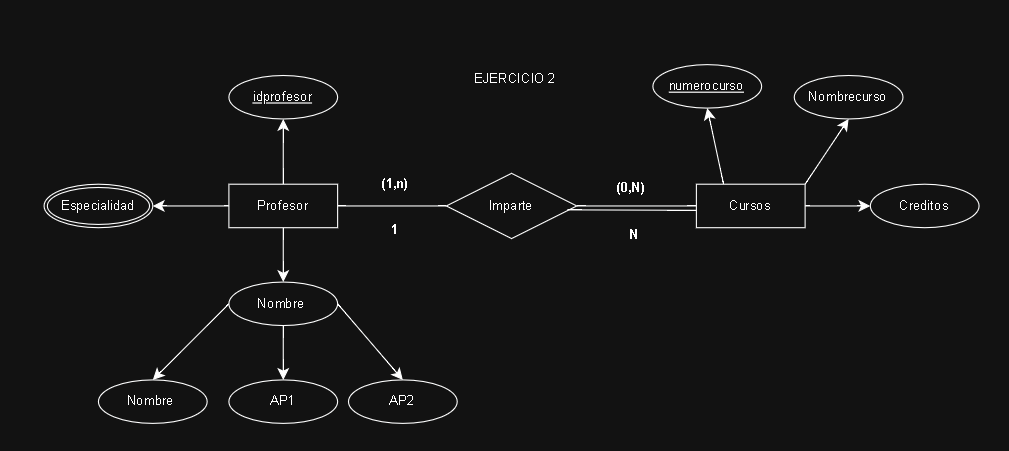
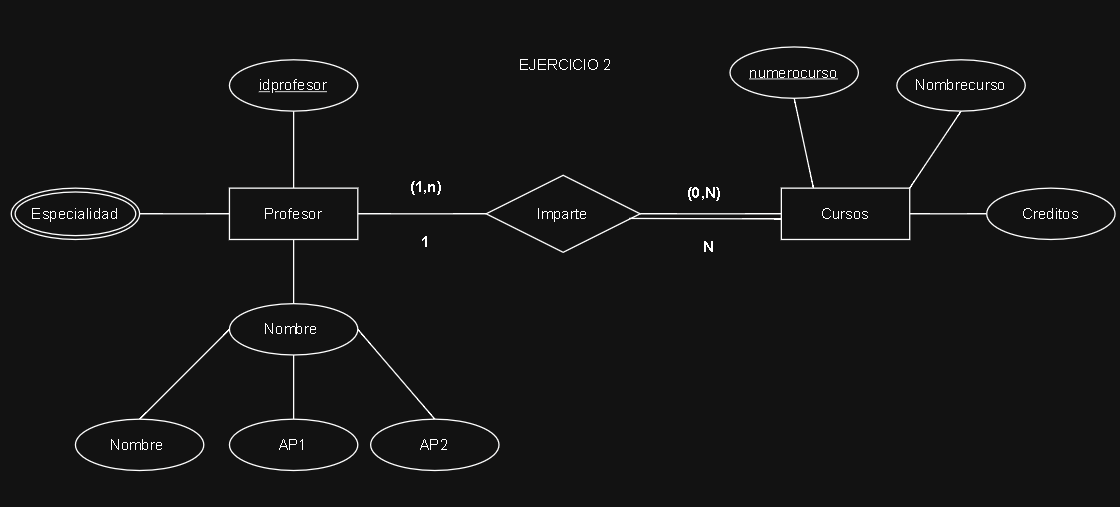
feat: estandarizar formato de ejercicios ER y agregar ejercicio 5
Se uniformó la estructura de todos los ejercicios al formato del ejercicio 1,
incluyendo la sección "Que se debe de realizar". Se agregó el ejercicio 5
con las entidades Departamento, Proyecto, Empleado y Dependiente.
Se actualizaron los diagramas ER (1, 2 y 5).

diff --git a/02-Modelado-BasedeDatos/01-EjerciciosER.md b/02-Modelado-BasedeDatos/01-EjerciciosER.md
@@ -42,11 +42,20 @@ especialidad
 - número de cursos
 - nombre del curso
 - creditos
->reglas de negocio
+> Reglas del negocio
 1. un profesor puede impartir varios cursos
 2. un curso solo puede ser impartido por 1 profesor
 3. puede existir un profesor que actualmente no imparta cursos
 4. todo curso debe estar asignado a un profesor
+> Que se debe de realizar 
+
+- Identificar las entidades
+- Identificar los atributos
+- Dibujar las relaciones
+- Dibujar las cardinalidad
+- Dibujar la participación de cada entidad
+
+![Ejercicio2](/img/ER/diagrama2.png)
 
 # Ejercicio 3
 Una escuela administra alumnos y materias 
@@ -58,7 +67,7 @@ Una escuela administra alumnos y materias
 - Clave de la materia
 - nombre de la materia 
 - creditos 
-# reglas del negocio
+> Reglas del negocio
 1. un alumno puede inscribirse en varias materias
 2. una materia puede tener muchos alumnos inscritos
 3. puede existir una materia sin alumnos inscritos
@@ -66,7 +75,14 @@ Una escuela administra alumnos y materias
 5. de cada inscripción se desea almacenar:
  - fecha de inscripción
  - calificación final
- nota: a la relación nombrarla **inscribe**
+> Que se debe de realizar 
+
+- Identificar las entidades
+- Identificar los atributos
+- Dibujar las relaciones
+- Dibujar las cardinalidad
+- Dibujar la participación de cada entidad
+
 ![Ejercicio3](/img/ER/diagrama3.png)
 # Ejercicio 4
 Una empresa dedicada a las ventas al por mayor necesita registrar lo siguiente para los clientes
@@ -77,7 +93,7 @@ Una empresa dedicada a las ventas al por mayor necesita registrar lo siguiente p
 - número del producto
 - nombre
 - precio
-> reglas del negocio
+> Reglas del negocio
 1. Un cliente puede realizar muchos pedidos
 2. Cada pedido pertenece a un solo cliente
 3. Un pedido contiene varios productos
@@ -87,3 +103,72 @@ Una empresa dedicada a las ventas al por mayor necesita registrar lo siguiente p
 7. El detalle del pedido no existe sin pedido
 8. El detalle del pedido no existe sin producto
 9. El detalle almacena la cantidad vendida y el precio
+> Que se debe de realizar 
+
+- Identificar las entidades
+- Identificar los atributos
+- Identificar los atributos compuestos
+- Identificar los atributos multivalor
+- Dibujar las relaciones
+- Dibujar las cardinalidad
+- Dibujar la participación de cada entidad
+
+![Ejercicio4](/img/ER/diagrama4.png)
+
+## Ejercicio 5
+
+Una empresa está organizada en departamentos y necesita registrar la siguiente información:
+
+> De cada **departamento** se almacena:
+- Número único del departamento
+- Nombre único del departamento
+- Fecha de inicio del empleado que administra el departamento
+- Ubicaciones del departamento (puede tener varias)
+
+> De cada **proyecto** se almacena:
+- Número único del proyecto
+- Nombre único del proyecto
+- Ubicación del proyecto
+
+> De cada **empleado** se almacena:
+- Nombre
+- Número de Seguro Social (SSN)
+- Dirección
+- Salario
+- Sexo (género)
+- Fecha de nacimiento
+- Horas semanales trabajadas por proyecto
+- Supervisor directo (otro empleado)
+
+> De cada **dependiente** se almacena:
+- Nombre
+- Sexo
+- Fecha de nacimiento
+- Relación con el empleado
+
+> Reglas del negocio
+1. Un departamento es administrado por un solo empleado
+2. Un empleado puede administrar como máximo un departamento
+3. Un departamento puede tener varias ubicaciones
+4. Un departamento controla varios proyectos
+5. Un proyecto pertenece a un solo departamento
+6. Un empleado está asignado a un solo departamento
+7. Un empleado puede trabajar en varios proyectos
+8. Un proyecto puede tener varios empleados trabajando en él
+9. Un empleado tiene un supervisor directo (otro empleado)
+10. Un empleado puede supervisar a varios empleados
+11. Un empleado puede tener varios dependientes
+12. Un dependiente pertenece a un solo empleado
+
+> Que se debe de realizar 
+
+- Identificar las entidades
+- Identificar los atributos
+- Identificar los atributos multivalor (ubicaciones del departamento)
+- Identificar los atributos compuestos (dirección)
+- Identificar los atributos derivados
+- Dibujar las relaciones
+- Dibujar las cardinalidad
+- Dibujar la participación de cada entidad
+
+![Ejercicio5](/img/ER/diagrama5.png)
